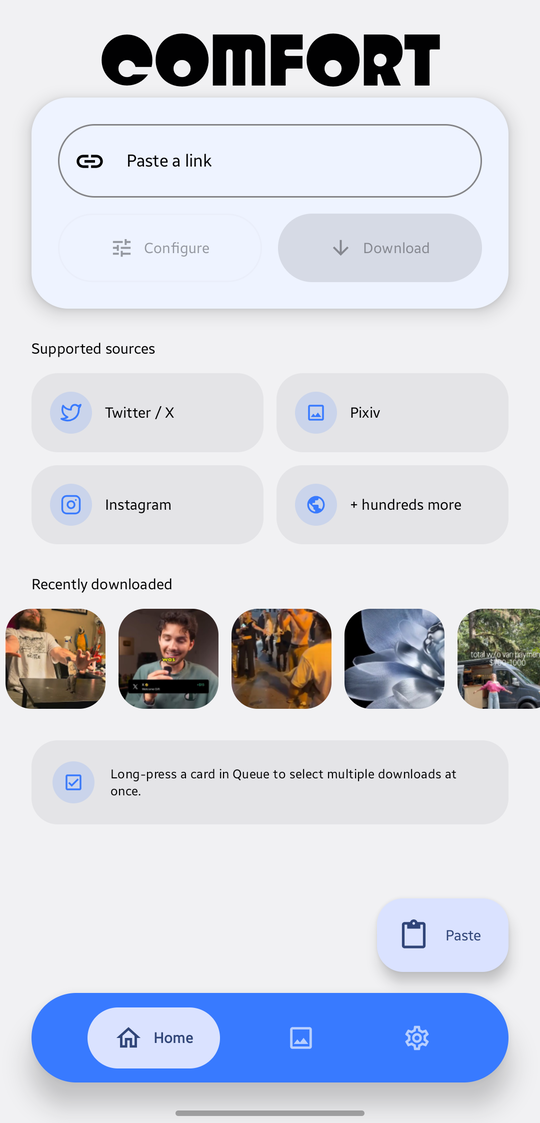
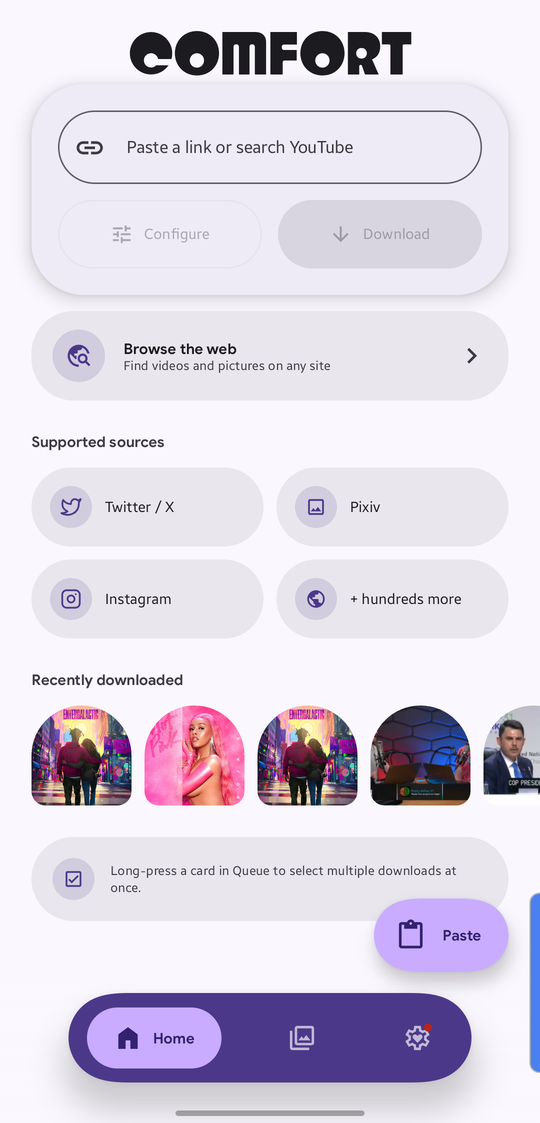
README and website: comics, the items sheet, Library & folders, songs in Music/Comfort, faster playlists; new screenshots (Home, Library, Settings, items sheet, comic reader, Library & folders)

diff --git a/docs/index.html b/docs/index.html
@@ -354,12 +354,12 @@
         <div class="feature reveal">
           <div class="icon"><svg><use href="#i-music"/></svg></div>
           <h3>Music, tagged properly</h3>
-          <p>Spotify tracks, albums and playlists with no login. Real artist, album and square cover art, plus synced lyrics. MP3, M4A, Opus or FLAC.</p>
+          <p>Spotify tracks, albums and playlists with no login. Real artist, album and square cover art, plus synced lyrics. MP3, M4A, Opus or FLAC. Playlists download fast: the next songs get ready while one downloads.</p>
         </div>
         <div class="feature reveal">
           <div class="icon"><svg><use href="#i-play"/></svg></div>
-          <h3>Watch and listen inside</h3>
-          <p>A built-in viewer for your pictures and videos, and a full music player with a queue, shuffle and synced lyrics on Now Playing.</p>
+          <h3>Watch, listen and read inside</h3>
+          <p>A built-in viewer for your pictures and videos, a full music player with a queue, shuffle and synced lyrics, and a comic reader for manga and webtoon chapters, saved as one .cbz each.</p>
         </div>
         <div class="feature reveal">
           <div class="icon"><svg><use href="#i-search"/></svg></div>
@@ -389,7 +389,7 @@
         <div class="feature reveal">
           <div class="icon"><svg><use href="#i-folder"/></svg></div>
           <h3>Tidy by default</h3>
-          <p>Everything saves to Download/Comfort, sorted into Pictures, Videos and Music, with clean names like "Poster - caption".</p>
+          <p>Pictures and videos save to Download/Comfort, songs to Music/Comfort where music players look, all with clean names like "Poster - caption".</p>
         </div>
         <div class="feature reveal">
           <div class="icon"><svg><use href="#i-backup"/></svg></div>
@@ -431,9 +431,12 @@
         <figure class="shot"><div class="phone"><img src="screenshots/preview_playlist.png" alt="Playlist preview" loading="lazy"></div><figcaption>Playlists<span>Every track, your pick</span></figcaption></figure>
         <figure class="shot"><div class="phone"><img src="screenshots/queue.png" alt="Download queue" loading="lazy"></div><figcaption>Queue<span>Live progress</span></figcaption></figure>
         <figure class="shot"><div class="phone"><img src="screenshots/library.png" alt="Library" loading="lazy"></div><figcaption>Library<span>Search, filter, favourite</span></figcaption></figure>
+        <figure class="shot"><div class="phone"><img src="screenshots/items_sheet.png" alt="A download's items" loading="lazy"></div><figcaption>A download's items<span>Open, play or delete each one</span></figcaption></figure>
+        <figure class="shot"><div class="phone"><img src="screenshots/comic_reader.png" alt="Comic reader" loading="lazy"></div><figcaption>Comic reader<span>Manga and webtoons</span></figcaption></figure>
         <figure class="shot"><div class="phone"><img src="screenshots/appearance_light.png" alt="Appearance settings" loading="lazy"></div><figcaption>Appearance<span>Themes and colors</span></figcaption></figure>
         <figure class="shot"><div class="phone"><img src="screenshots/appearance_dark.png" alt="Pure black theme" loading="lazy"></div><figcaption>Pure black<span>For OLED screens</span></figcaption></figure>
         <figure class="shot"><div class="phone"><img src="screenshots/settings.png" alt="Settings" loading="lazy"></div><figcaption>Settings<span>Everything in one place</span></figcaption></figure>
+        <figure class="shot"><div class="phone"><img src="screenshots/settings_library.png" alt="Library and folders settings" loading="lazy"></div><figcaption>Library &amp; folders<span>Deleting, Deleted and folders</span></figcaption></figure>
       </div>
     </div>
   </section>
@@ -483,7 +486,7 @@
         <details class="reveal"><summary>Why isn't it on the Play Store?</summary><p>Google Play doesn't allow apps that download from YouTube and similar sites, so Comfort is installed from its APK instead. Your phone will ask you to allow installs from your browser or file manager the first time.</p></details>
         <details class="reveal"><summary>Which sites does it work with?</summary><p>Thousands. Comfort uses yt-dlp, gallery-dl and Instaloader, which between them support X, Instagram, Reddit, YouTube, TikTok, Pinterest, Tumblr, SoundCloud and over 3,000 other sites. You can see the full lists, and choose which engine handles a site, in Settings.</p></details>
         <details class="reveal"><summary>How does it stay up to date?</summary><p>The app checks GitHub for new versions and installs them for you. The download engines update separately, so a fix for a site can arrive the same day it's released.</p></details>
-        <details class="reveal"><summary>Where do my downloads go?</summary><p>To Download/Comfort on your phone, sorted into Pictures, Videos and Music. They show up in your gallery and music player like anything else. You can pick a different folder in Settings.</p></details>
+        <details class="reveal"><summary>Where do my downloads go?</summary><p>Pictures and videos go to Download/Comfort on your phone, sorted into Pictures and Videos, and songs to Music/Comfort. They show up in your gallery and music player like anything else. You can pick a different folder in Settings › Library &amp; folders.</p></details>
         <details class="reveal"><summary>Can it download private posts?</summary><p>Only ones your own account can see. Sign in to the site once through Comfort's built-in browser and it uses that login for downloads. Your login stays on your phone.</p></details>
       </div>
     </div>

diff --git a/README.md b/README.md
@@ -67,6 +67,8 @@ straight from them with Obtainium:
   instead of restarting it
 - **Subscriptions**: subscribe to a channel or playlist from the download sheet, and its new uploads
   download on their own (Settings › Subscriptions)
+- **Block a site** so nothing is downloaded from it, and see one download's own log lines from its
+  menu in the Library
 - yt-dlp, gallery-dl and Instaloader update independently of the app itself — automatically by
   default, on a Stable or Bleeding Edge channel per engine (Settings › Updates and engines) — no need
   to wait for a new app release to pick up a site-extractor fix
@@ -84,7 +86,11 @@ straight from them with Obtainium:
   file) — Library has a dedicated Audio filter, and a track's card shows "Artist — Album" instead
   of just the source domain
 - A YouTube Music download's cover art is cropped square from its video thumbnail, not left 16:9
-- Synced lyrics from [LRCLIB](https://lrclib.net) saved inside each song
+- Synced lyrics from [LRCLIB](https://lrclib.net) saved inside each song, looked up as soon as the
+  song starts downloading
+- YouTube playlists and albums download much faster: the next songs are prepared while one
+  downloads (Settings › Downloads › Look ahead in playlists)
+- Songs are saved to `Music/Comfort`, where music players find them
 - Save songs as MP3, M4A, Opus or FLAC (or the site's original audio), with an option to level
   every song to the same loudness
 
@@ -94,6 +100,12 @@ straight from them with Obtainium:
 - A full music player, with Auxio's playback engine and look: a queue, shuffle, Now Playing with
   synced lyrics, and a video with sound pauses the music, which plays on after. Controls on the lock
   screen, from headphones and Bluetooth, and a home-screen widget
+- **Comics and manga**: chapters from manga sites are saved as one `.cbz`, and a built-in reader
+  opens them — right to left, left to right or a vertical webtoon strip, with zoom and its own
+  settings (page scale, tap zones, margins, background, orientation, volume keys)
+- A multi-item download's items in their own sheet, from the stack button on its card: open, play
+  or delete any one of them
+- Or open videos and music in your phone's own players instead
 
 🎛 **Per-download options** (the preview sheet)
 - Video quality: Best / 4K / 1440p / 1080p / 720p / 480p / Audio-only, showing the size of the
@@ -124,12 +136,17 @@ straight from them with Obtainium:
 🎨 **App**
 - Library with search, filters, favorites, duplicates, and a grid/list view toggle; swipe a card
   to remove it
+- Settings › Library & folders: whether Delete removes a download from your phone or only from the
+  Library, showing the Deleted and Duplicates sections, clearing Deleted after 7 or 30 days, and
+  where downloads are saved
+- A welcome screen on first launch, and layouts for landscape (the Library in two columns, the
+  music player side by side)
 - Swipe sideways between Home, Library and Settings, and between the Queue's tabs
 - Backup & restore of your settings, command templates, Library history and logins
 - Light/dark/system theme, several named color themes, dynamic color, and a pure-black OLED option
 - 16 languages — English, Spanish, Portuguese (Brazil), German, French, Italian, Russian, Turkish,
   Indonesian, Vietnamese, Hindi, Japanese, Chinese (Simplified), and right-to-left Arabic, Hebrew and
-  Persian — picked in Settings › Appearance › Language
+  Persian — picked in Settings › Look & feel › Language
 
 ## Screenshots
 
@@ -148,9 +165,13 @@ straight from them with Obtainium:
   </tr>
   <tr>
     <td align="center"><img src="docs/screenshots/settings_processing.png" width="200" alt="Processing settings"><br>Processing</td>
-    <td align="center"><img src="docs/screenshots/settings_folders.png" width="200" alt="Folder settings"><br>Folders</td>
+    <td align="center"><img src="docs/screenshots/settings_library.png" width="200" alt="Library and folders settings"><br>Library &amp; folders</td>
     <td align="center"><img src="docs/screenshots/settings_advanced.png" width="200" alt="Advanced settings"><br>Advanced</td>
     <td align="center"><img src="docs/screenshots/settings_about.png" width="200" alt="About"><br>About</td>
+  </tr>
+  <tr>
+    <td align="center"><img src="docs/screenshots/items_sheet.png" width="200" alt="A download's items"><br>A download's items</td>
+    <td align="center"><img src="docs/screenshots/comic_reader.png" width="200" alt="Comic reader"><br>Comic reader</td>
   </tr>
 </table>
 
@@ -218,6 +239,8 @@ not just emulators) and `x86_64`, plus a universal APK with all three.
 - [Photon Gallery](https://github.com/Bn5prS/Photon_Gallery) (GPLv3) — the built-in picture and
   video viewer
 - [LRCLIB](https://lrclib.net) — synced lyrics
+- [@Vmratef](https://github.com/Vmratef) — Android 9 fixes, faster previews and saving music to the
+  Music folder
 
 ## License
 
